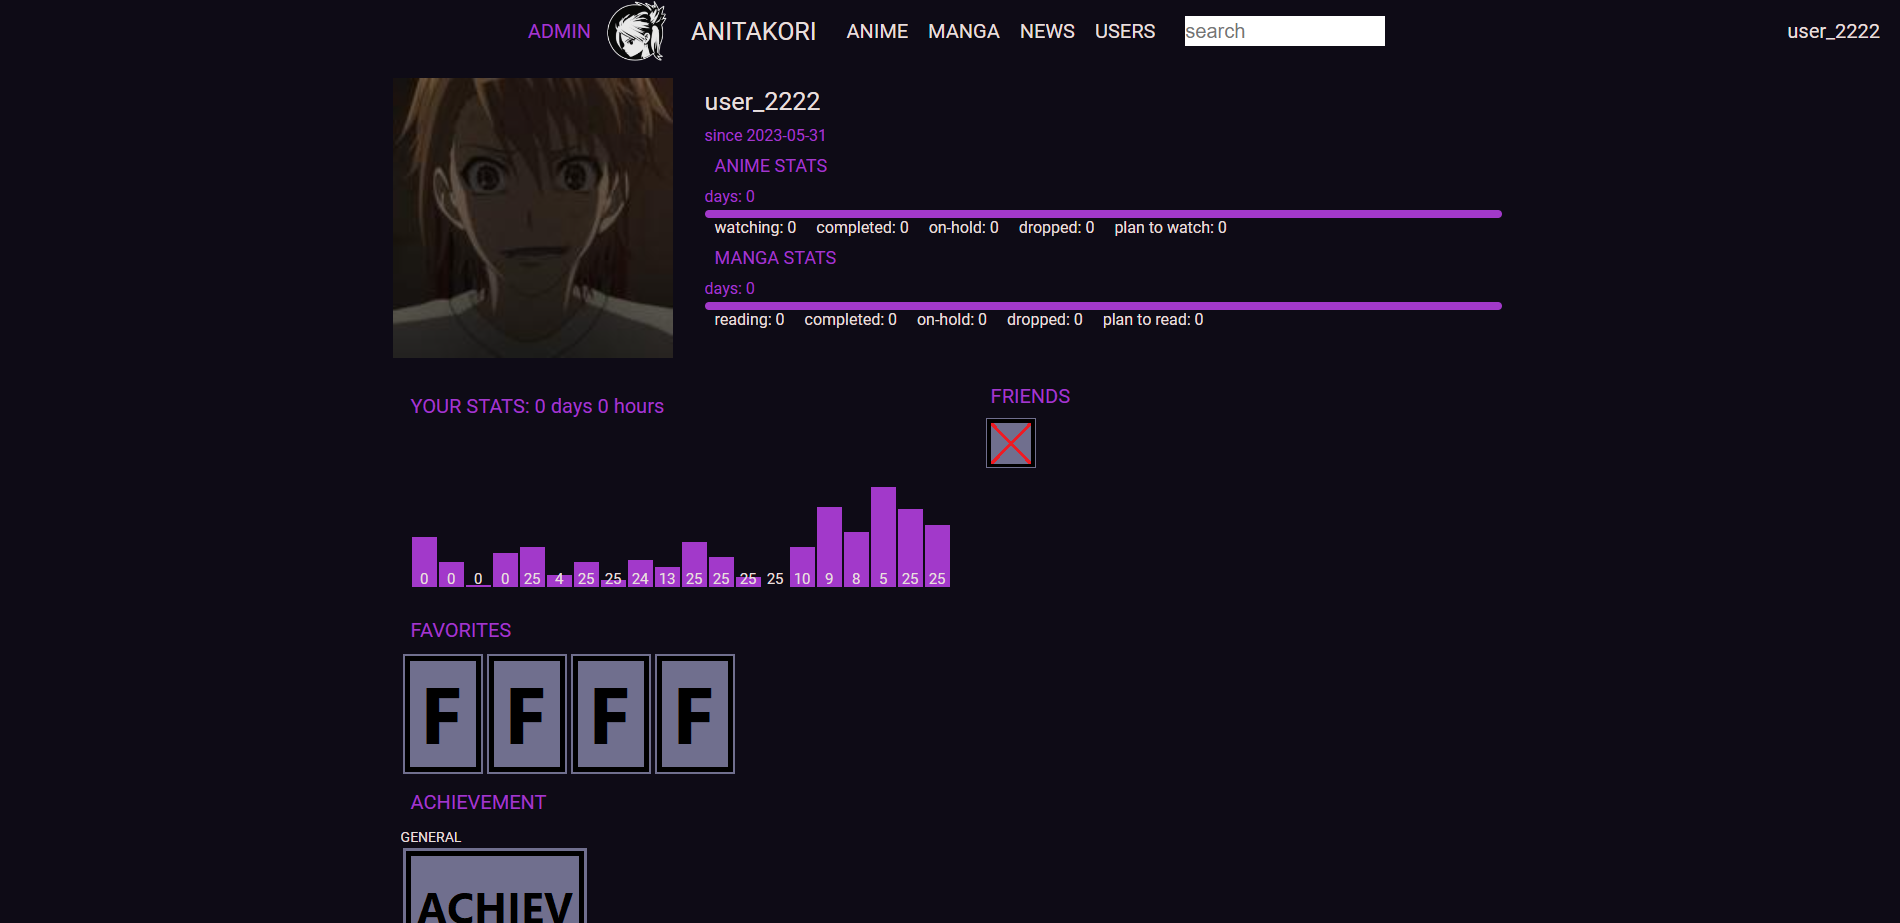
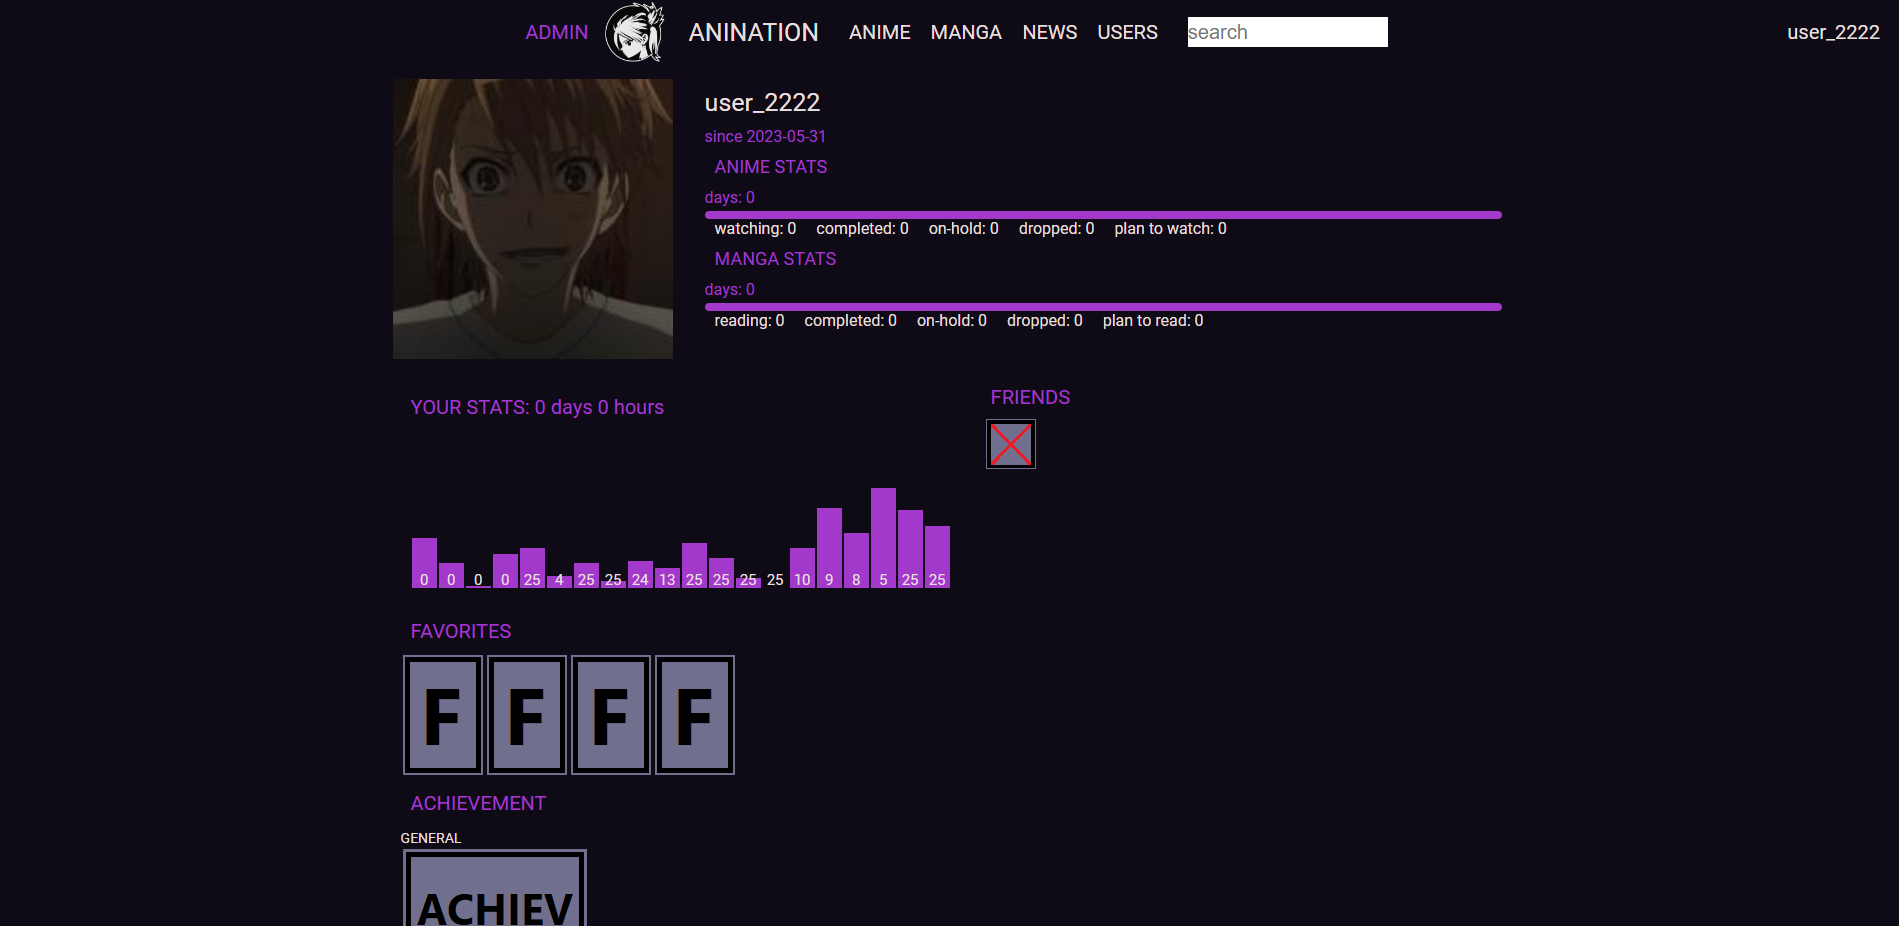
add screenshots to README.md

diff --git a/src/main/resources/templates/blocks/header.html b/src/main/resources/templates/blocks/header.html
@@ -6,7 +6,7 @@
         </a>
         <a class="a_header" href="/">
             <img src="/img/anination_logo_s.png" alt="LOGO" class="logo">
-            <p class="header_name">ANITAKORI</p>
+            <p class="header_name">ANINATION</p>
         </a>
         <a class="header_element" href="/anime">
             <p>ANIME</p>

diff --git a/README.md b/README.md
@@ -18,7 +18,7 @@ Website for anime and manga news, where you can storage your list of watching or
 
 ### Screenshots:
 ###### Titles, and description
-![alt text](screenshots/pic_2.jpg)
+![alt text](screenshots/pic_2.png)
 ###### User profile
 ![alt text](screenshots/pic_3.png)
 ###### Panel for administration and moderation
